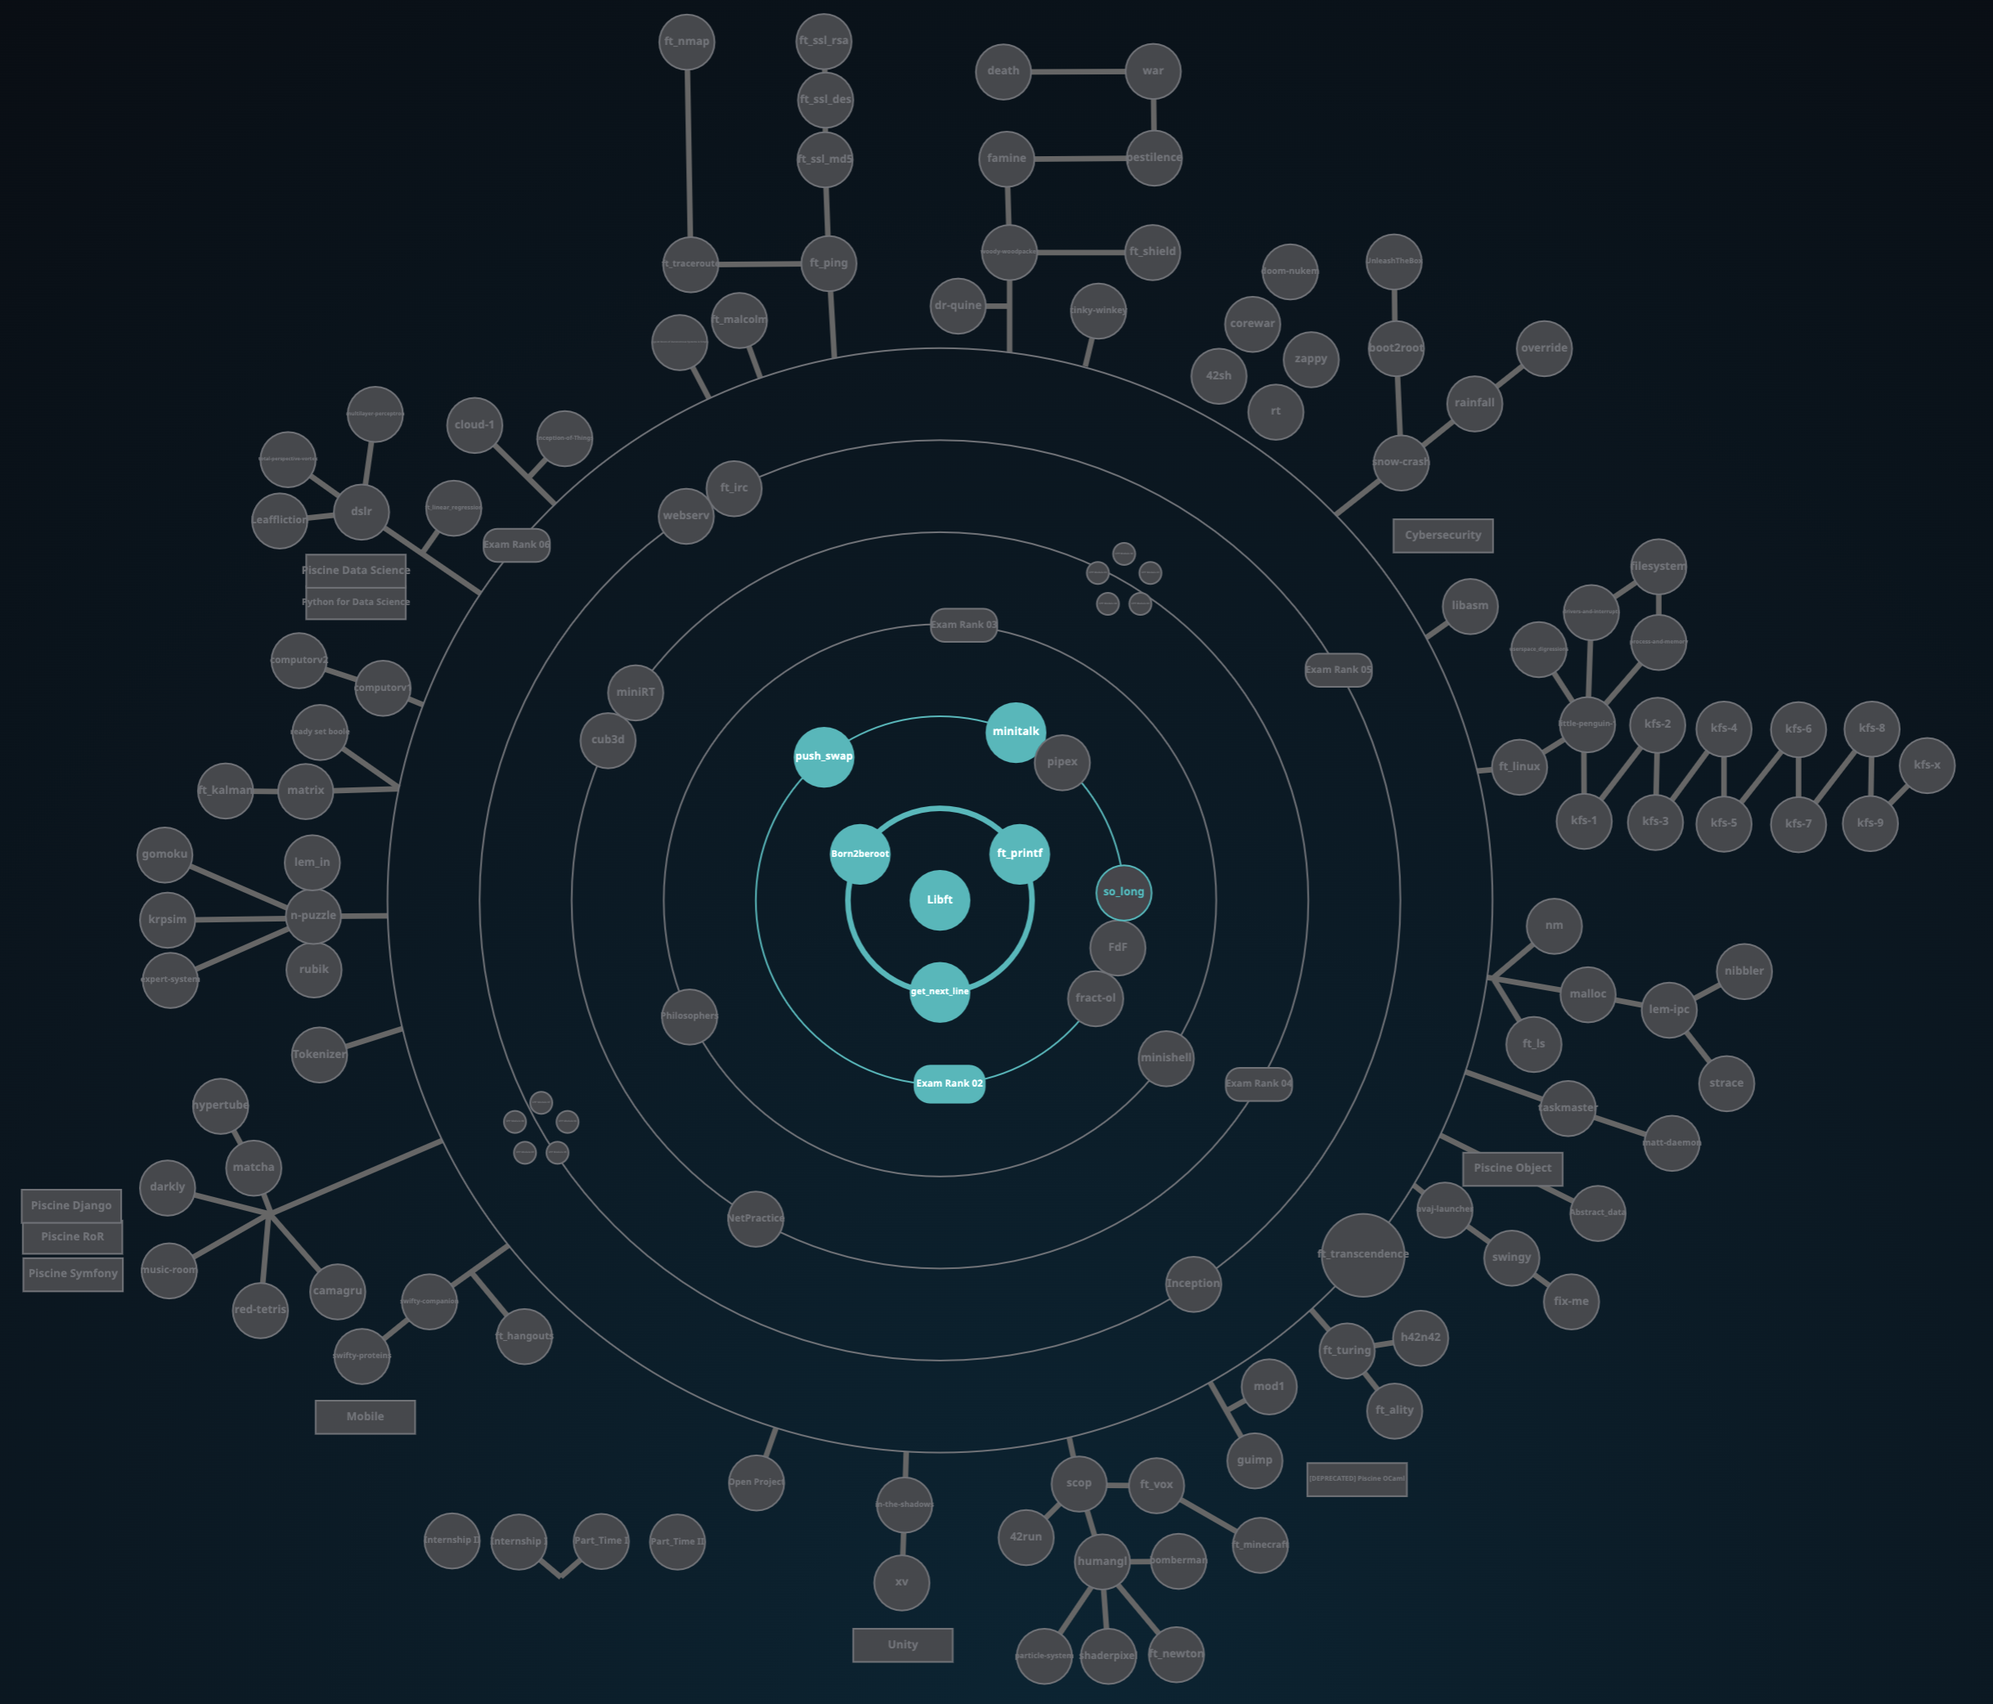
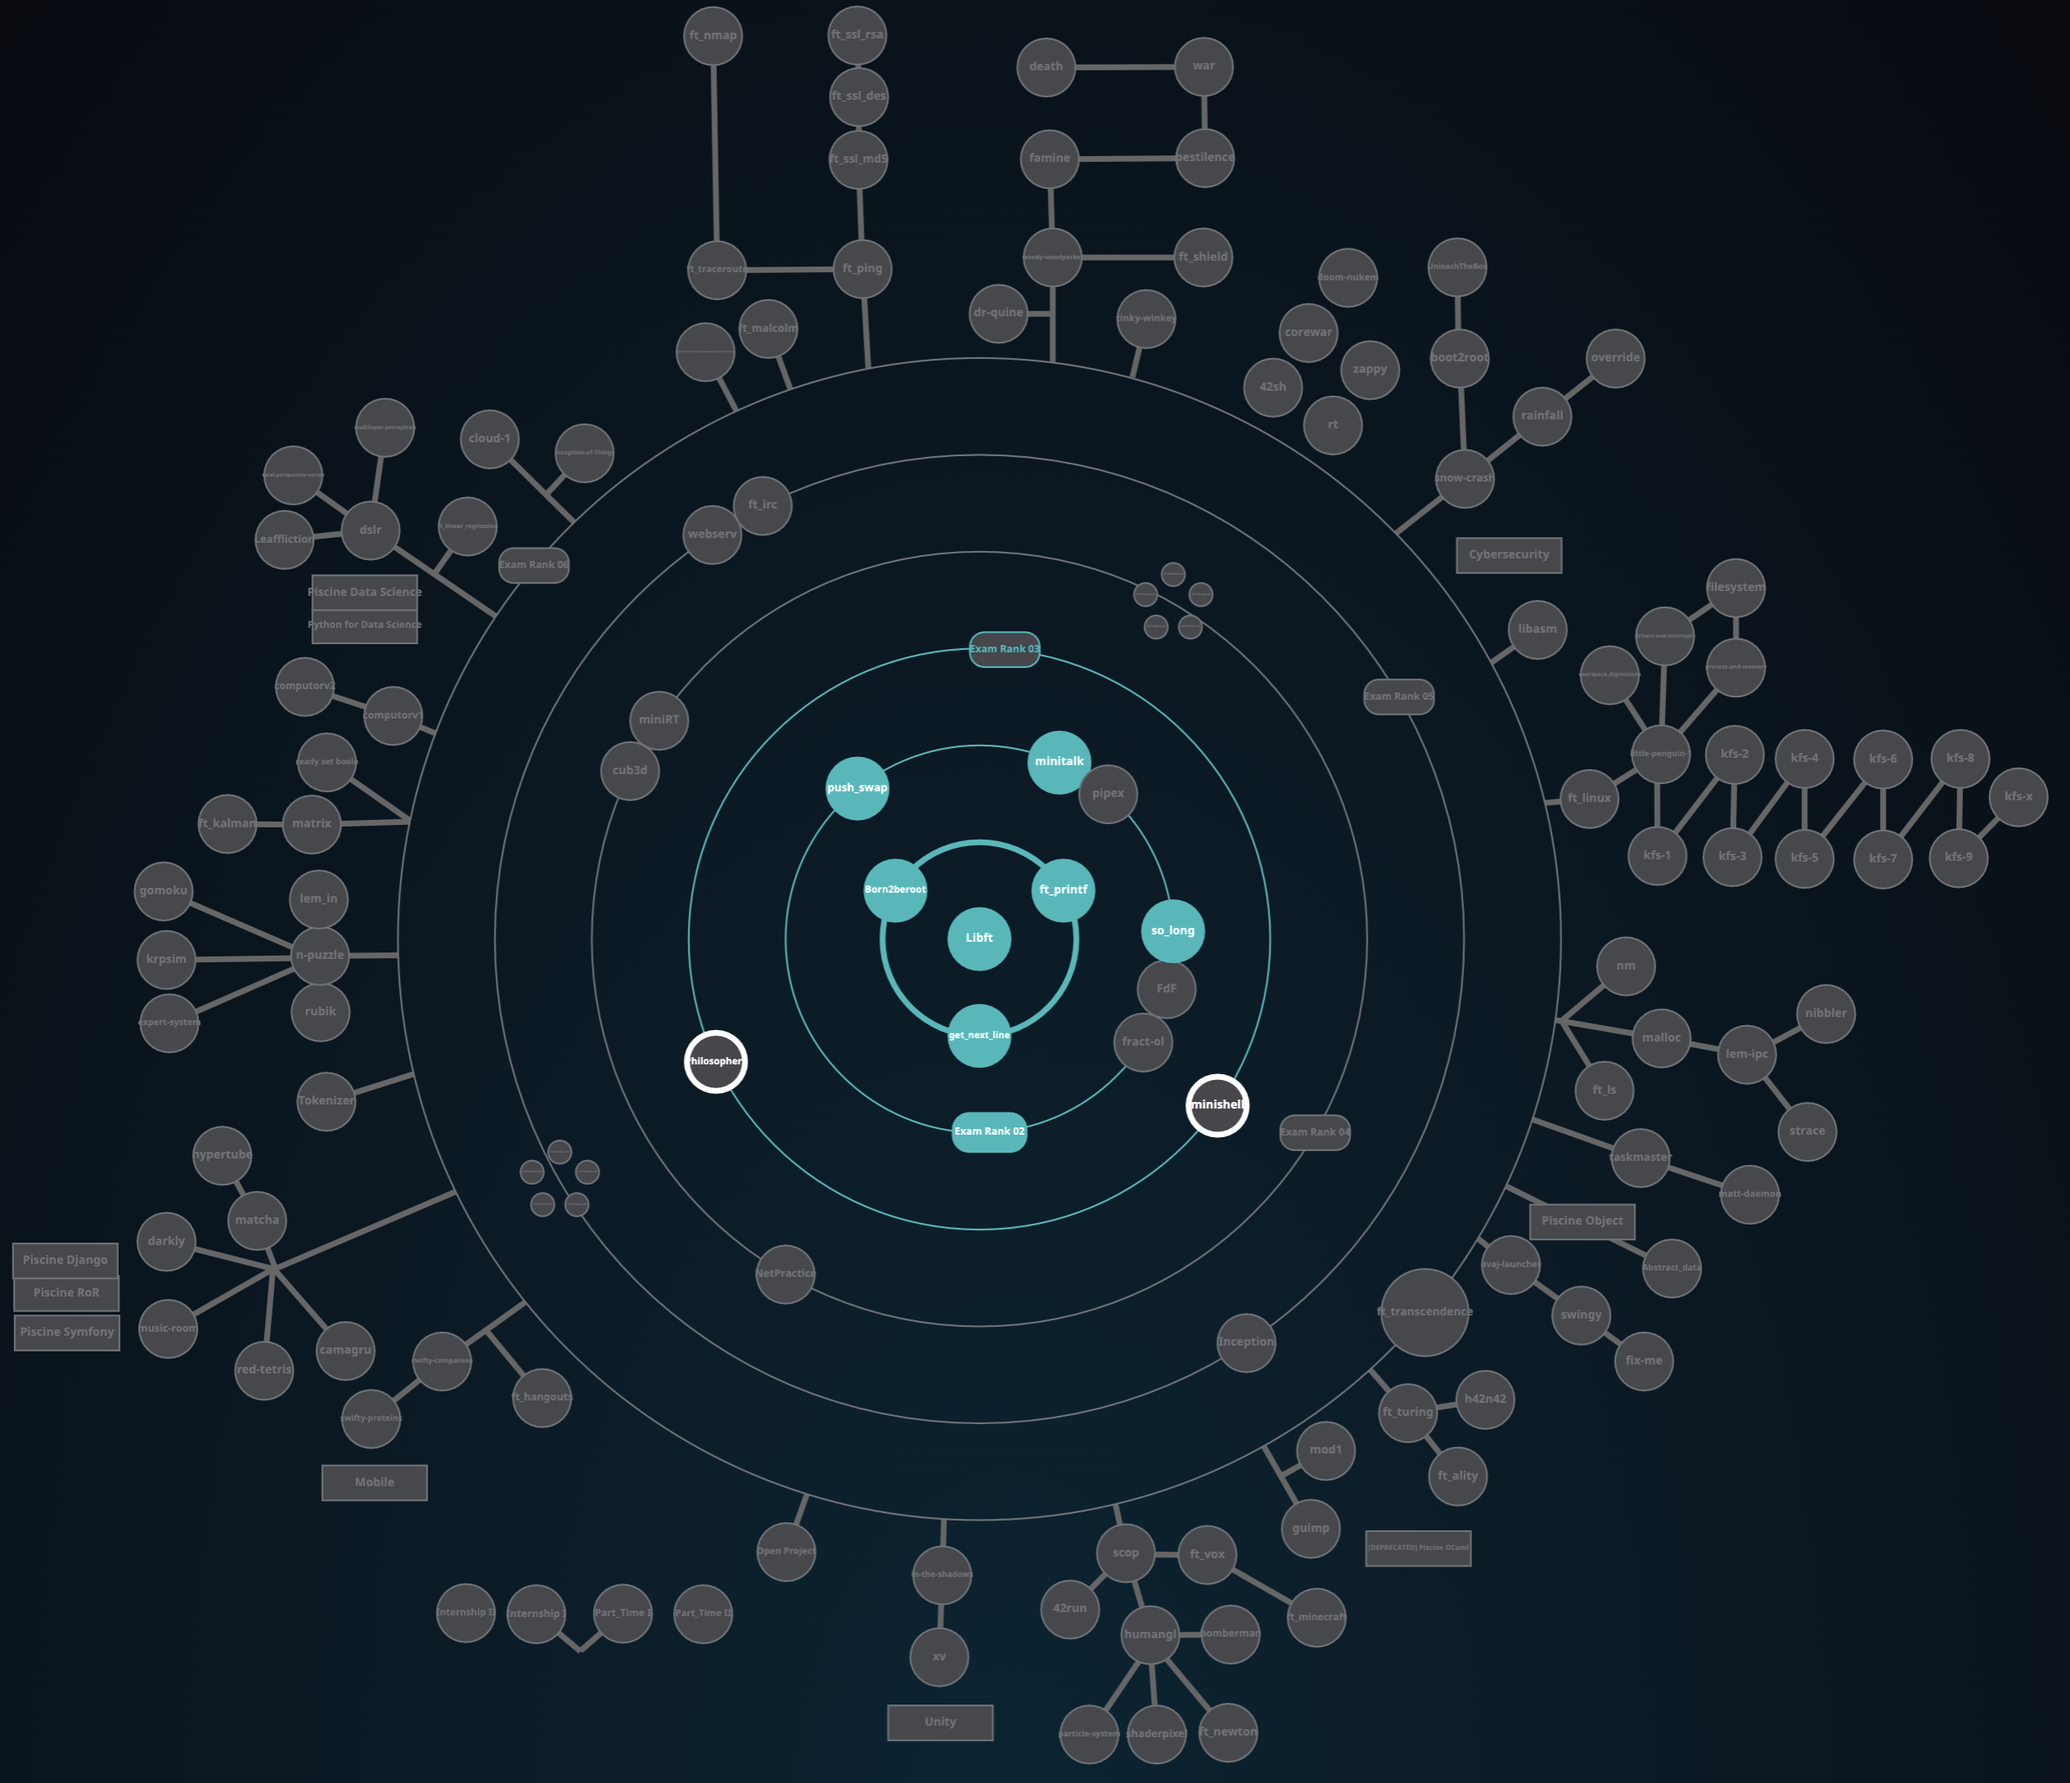
update readme + grade

diff --git a/README.md b/README.md
@@ -37,19 +37,19 @@ Mon parcours au Cursus commun de l'école 42 Lausanne.
 |:------------------------------------- | ---------------------------------:|
 | [Push_swap](https://github.com/aceyzz/Push_swap)		| **100/100**						|
 | [Minitalk](https://github.com/aceyzz/Minitalk)			| **125/100**						|
-| [So_long](https://github.com/aceyzz/So_long)			| En cours d'évaluation						|
+| [So_long](https://github.com/aceyzz/So_long)			| **125/100**				|
 | [Exam Rank 02](https://github.com/aceyzz/42-Exam/tree/master/exam_rank_02) | **100/100** |
 
 <br>
 
 ---
 
-### Cercle 3 *(locked)*
+### Cercle 3
 | PROJECT								| GRADE								|
 |:------------------------------------- | ---------------------------------:|
-| ~~Minishell~~					| 						|
-| ~~Philosophers~~		| 						|
-| ~~Exam Rank 03~~ |  |
+| Minishell					| 						|
+| Philosophers		| 						|
+| Exam Rank 03 |  |
 
 <br>
 
